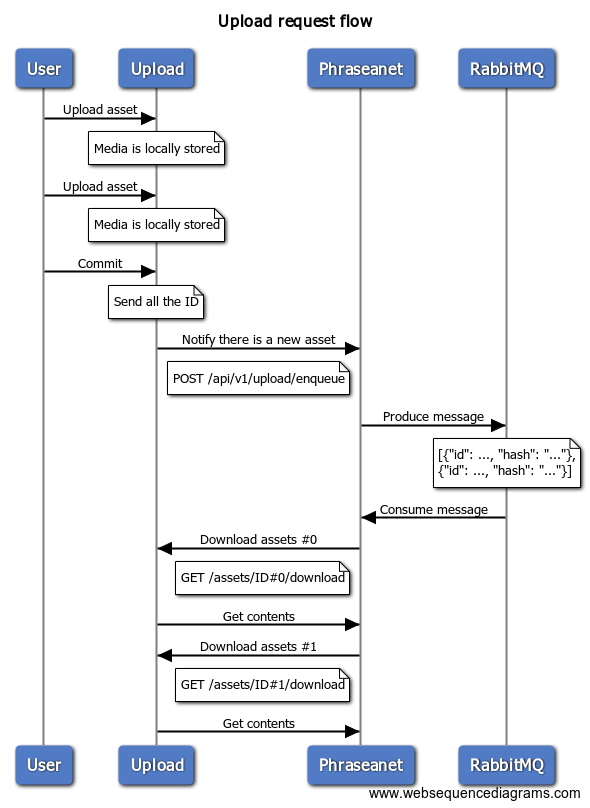
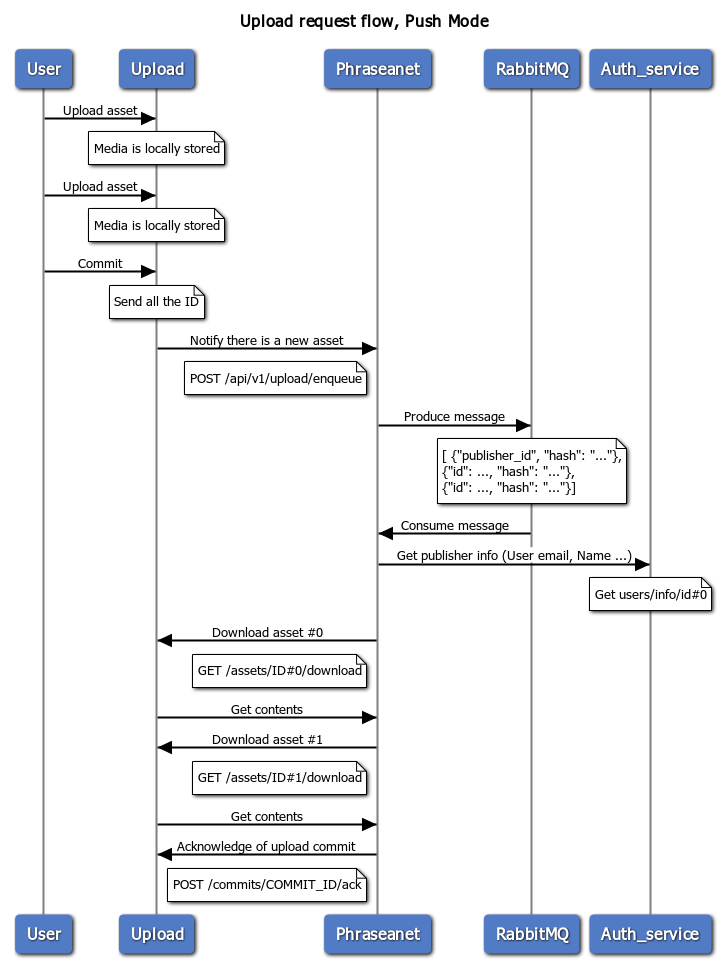
PS-177 update documentation for upload pull mode delivery

Changed region(s): [[0.0, 0.0, 1.0, 0.9901]]

diff --git a/uploader/doc/request_flow.md b/uploader/doc/request_flow.md
@@ -1,14 +1,19 @@
 # Request flow
 
+Push Mode
 When an asset is uploaded to the upload service, the upload service notifies Phraseanet that there is a new asset to grab.
 Then Phraseanet download the media through the upload service.
 
-## Flow
+Pull Mode
+When an asset is uploaded to the upload service, the upload service don't notifies
+Phraseanet fetch commit within timing interval
+
+## Flow Push Mode
 
 ![Sequence](sequence.png "Request sequence")
 
-```sequence
-title Upload request flow
+``` sequence
+title Upload request flow, Push Mode
 
 User->Upload: Upload asset
 note over Upload: Media is locally stored
@@ -20,20 +25,60 @@ Upload->Phraseanet: Notify there is a new asset
 note left of Phraseanet: POST /api/v1/upload/enqueue
 Phraseanet->RabbitMQ: Produce message
 note over RabbitMQ
-    [{"id": ..., "hash": "..."},
-      {"id": ..., "hash": "..."}]
+    [ {"publisher_id", "hash": "..."},
+    {"id": ..., "hash": "..."},
+    {"id": ..., "hash": "..."}]
 end note
-
 RabbitMQ->Phraseanet: Consume message
-Phraseanet->Upload: Download assets #0
+Phraseanet->Auth_service: Get publisher info (User email, Name ...) 
+note over Auth_service: Get users/info/id#0
+
+Phraseanet->Upload: Download asset #0
 note left of Phraseanet: GET /assets/ID#0/download
 Upload->Phraseanet: Get contents
-Phraseanet->Upload: Download assets #1
+Phraseanet->Upload: Download asset #1
 note left of Phraseanet: GET /assets/ID#1/download
 Upload->Phraseanet: Get contents
+Phraseanet->Upload: Acknowledge of upload commit
+note left of Phraseanet: POST /commits/COMMIT_ID/ack
 ```
 
-### Phraseanet entrypoint
+## Flow Pull mode
+
+![Sequence](upload_sequence_Phraseanet_pull_mode.png "Request sequence Pull mode")
+
+```
+title Upload request flow, Pull Mode
+
+User->Upload: Upload asset
+note over Upload: Media is locally stored
+User->Upload: Upload asset
+note over Upload: Media is locally stored
+User->Upload: Commit
+note over Upload: Send all the ID
+Phraseanet->Upload: fetch new commit assets
+note left of Phraseanet: GET /commits/
+Phraseanet->RabbitMQ: Produce message
+note over RabbitMQ
+    [ {"publisher_id", "hash": "..."},
+    {"id": ..., "hash": "..."},
+    {"id": ..., "hash": "..."}]
+end note
+RabbitMQ->Phraseanet: Consume message
+Phraseanet->Auth_service: Get publisher info (User email, Name ...) 
+note over Auth_service: Get users/info/id#0
+
+Phraseanet->Upload: Download asset #0
+note left of Phraseanet: GET /assets/ID#0/download
+Upload->Phraseanet: Get contents
+Phraseanet->Upload: Download asset #1
+note left of Phraseanet: GET /assets/ID#1/download
+Upload->Phraseanet: Get contents
+Phraseanet->Upload: Acknowledge of upload commit
+note left of Phraseanet: POST /commits/COMMIT_ID/ack
+```
+
+## Phraseanet entrypoint
 
 In order to let Phraseanet know there are new asset to grab, Upload service must notify it.
 
